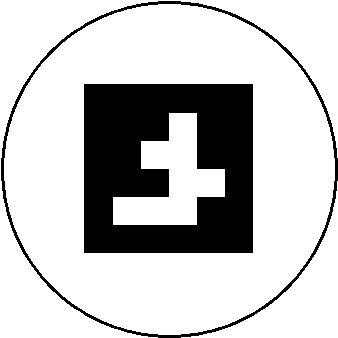
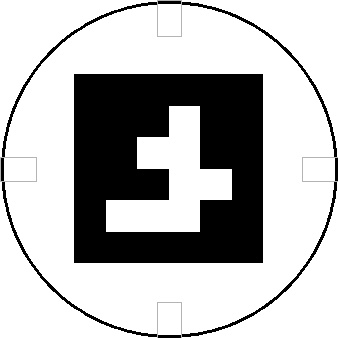
robot marker updated

diff --git a/Arena_setup/robots_aruco_marker_generator.py b/Arena_setup/robots_aruco_marker_generator.py
@@ -56,10 +56,10 @@ def put_image_in_circle(image, circle_diameter_cm, border_thickness):
 
 id = 15
 
-marker_size=169
+marker_size= 189
 circle_diameter_cm = 12
 border_thickness = 2
-margin = 100
+margin = 80
 
 aruco_dict = aruco.getPredefinedDictionary(aruco.DICT_4X4_100)
 
@@ -70,6 +70,12 @@ marker_image_rgb = cv2.cvtColor(marker_image, cv2.COLOR_GRAY2RGB)
 
 
 output_image = put_image_in_circle(marker_image_rgb, circle_diameter_cm, border_thickness)
+hs = output_image.shape[0]//2
+k = 12
+cv2.rectangle(output_image,(0,hs-k),(3*k,hs+k),[180,180,180])
+cv2.rectangle(output_image,(hs*2-3*k,hs-k),(hs*2,hs+k),[180,180,180])
+cv2.rectangle(output_image,(hs-k,0),(hs+k,3*k),[180,180,180])
+cv2.rectangle(output_image,(hs-k,hs*2-3*k),(hs+k,hs*2),[180,180,180])
 cv2.imwrite(f"robot_label_{id}.jpg", output_image)
 
 output_pdf = canvas.Canvas(f"robot_label_{id}.pdf", pagesize=(output_image.shape[1]+margin, output_image.shape[0]+margin))
